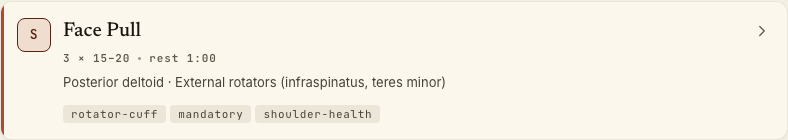
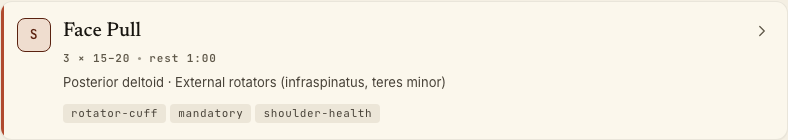
feat: restore Gym/Home location toggle on Today
The location toggle was buried in Settings → Where you train. For a user
who switches gym/home day-by-day, that's two screens of friction every
session. Bring the pair of LocationChips back to the Today hero header
where they used to live.

- TodayHero accepts `location` + `onSetLocation` props. When passed, a
  pair of chips (Gym / Home) renders top-right of the hero.
- DayPlanner wires them from useSettings — disabled mid-session since
  the live session is locked to the location it was started in.
- Single tap to flip: location preset, active program (gym vs home),
  and the overlay slot all switch atomically — the existing setLocation
  action handles the cascade.

Test state: 181 unit, 116 e2e (58 desktop + 58 mobile). Visual snapshots
refreshed for the new hero header.

Changed region(s): [[0.0914, 0.7714, 0.3046, 0.8571], [0.335, 0.7714, 0.4873, 0.8571]]

diff --git a/src/components/today/TodayHero.jsx b/src/components/today/TodayHero.jsx
@@ -73,6 +73,11 @@ export function TodayHero({
   hasOverlay,
   onResetDay,
   dayKey,
+  // Location swap — Gym / Home. When both are passed, a pair of
+  // LocationChips renders top-right of the hero so the user can flip
+  // without leaving Today. Wired by DayPlanner from useSettings.
+  location,
+  onSetLocation,
 }) {
   const patternKey = DAY_PATTERN_KEY[dayKey] ?? 'mobility';
   return (
@@ -132,14 +137,32 @@ export function TodayHero({
             {labelOverride ?? `Today · ${todayKey}`}
           </Text>
         </Stack>
-        {hasOverlay && (
-          <MonoChipButton
-            onClick={onResetDay}
-            data-testid="reset-day"
-          >
-            Reset day
-          </MonoChipButton>
-        )}
+        <Stack direction="row" align="center" gap={2}>
+          {onSetLocation && (
+            <Stack direction="row" gap={1} data-testid="hero-location">
+              <LocationChip
+                label="Gym"
+                active={location !== 'home'}
+                onClick={() => onSetLocation('gym')}
+                testId="hero-location-gym"
+              />
+              <LocationChip
+                label="Home"
+                active={location === 'home'}
+                onClick={() => onSetLocation('home')}
+                testId="hero-location-home"
+              />
+            </Stack>
+          )}
+          {hasOverlay && (
+            <MonoChipButton
+              onClick={onResetDay}
+              data-testid="reset-day"
+            >
+              Reset day
+            </MonoChipButton>
+          )}
+        </Stack>
       </Stack>
 
       <Text

diff --git a/src/components/today/DayPlanner.jsx b/src/components/today/DayPlanner.jsx
@@ -63,7 +63,7 @@ const PATTERN_LABEL = {
 
 export function DayPlanner({ dayKey, viewMode = 'today' }) {
   const navigate = useNavigate();
-  const { settings } = useSettings();
+  const { settings, setLocation } = useSettings();
   const { activeSession, archive, startSession } = useSession();
   const {
     overlay,
@@ -143,6 +143,11 @@ export function DayPlanner({ dayKey, viewMode = 'today' }) {
         startLabel={sessionActive ? 'Session in progress' : 'Start session'}
         hasOverlay={hasOverlay}
         onResetDay={() => resetDay(dayKey)}
+        // Location swap lives on the hero so the user can flip Gym/Home
+        // without leaving Today. The swap is disabled mid-session — the
+        // active session is locked to the location it was started in.
+        location={settings.location ?? 'gym'}
+        onSetLocation={sessionActive ? null : setLocation}
       />
 
       <BodyweightQuickLog />